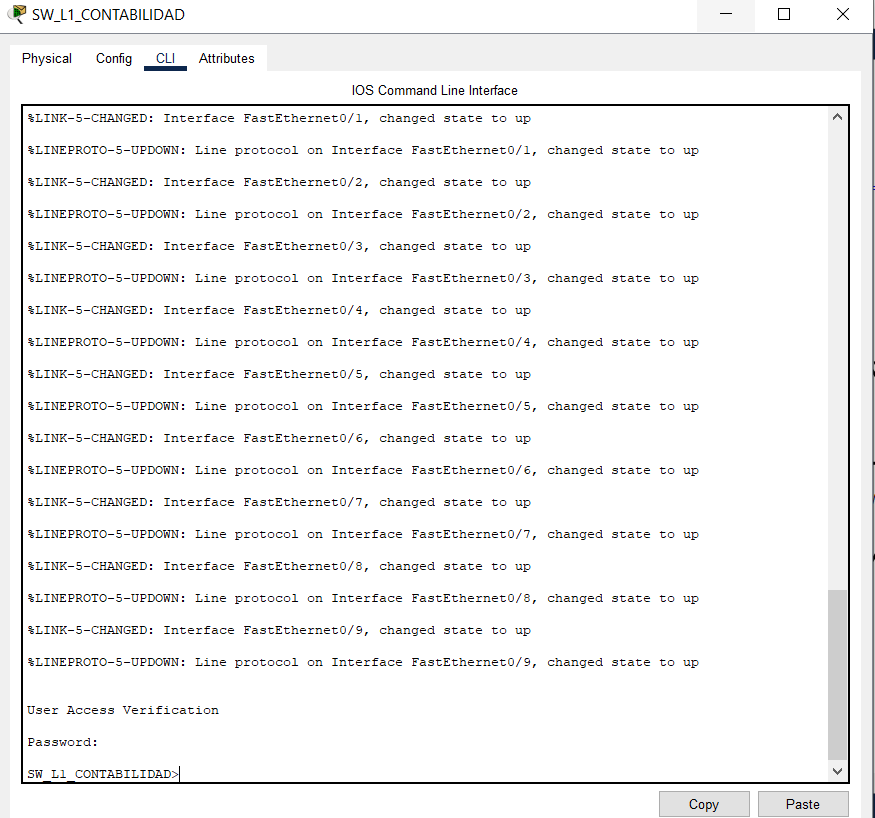
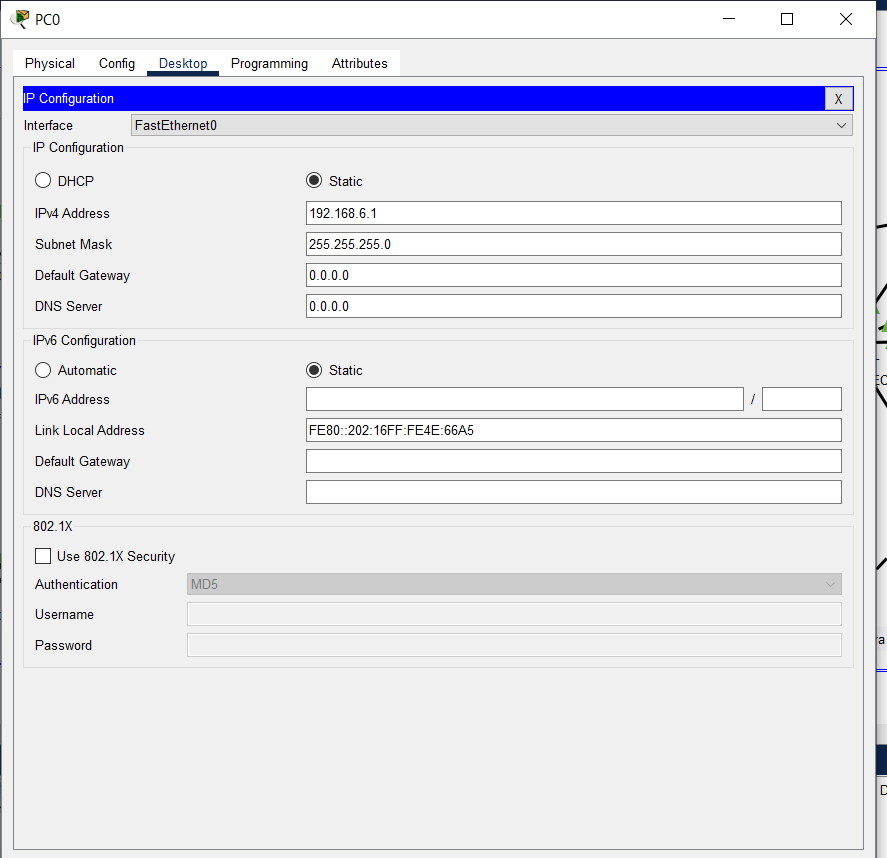
Terminado

Changed region(s): [[0.0, 0.0, 1.0, 1.0], [0.864, 0.0, 0.8949, 0.0306]]

diff --git a/README.md b/README.md
@@ -104,7 +104,47 @@ Correo: cesarhernandez0019@gmail.com
         password ConstraseñaAsignar
         login
 
-#### **VPCs queda pendientes**
+#### **VPCs**
+
+1.  Recepcion
+
+    ![imagen](/img/VPC1.PNG)
+
+2.  Contabilidad
+
+    ![imagen](/img/VPC2.PNG)
+
+3.  Reuniones
+
+    ![imagen](/img/VPC3.PNG)
+
+4.  Legal
+
+    ![imagen](/img/VPC4.PNG)
+
+5.  Arquitectura
+
+    ![imagen](/img/VPC5.PNG)
+
+6.  Revicion de planos
+
+    ![imagen](/img/VPC6.PNG)
+
+7.  Urbanismo
+
+    ![imagen](/img/VPC7.PNG)
+
+8.  Direccion general
+
+    ![imagen](/img/VPC8.PNG)
+
+9.  Servidores principales
+
+    ![imagen](/img/VPC9.PNG)
+
+10. Ingenieria civil
+
+    ![imagen](/img/VPC10.PNG)
 
 #### **Ping entre host**
 
@@ -147,3 +187,7 @@ Correo: cesarhernandez0019@gmail.com
 10. De ingenieria civil a recepcion
 
     ![imagen](/img/ping10.PNG)
+
+#### **Demostracion de paquetes ARP Y ICMP**
+
+![imagen](/img/Simulacion.PNG)
